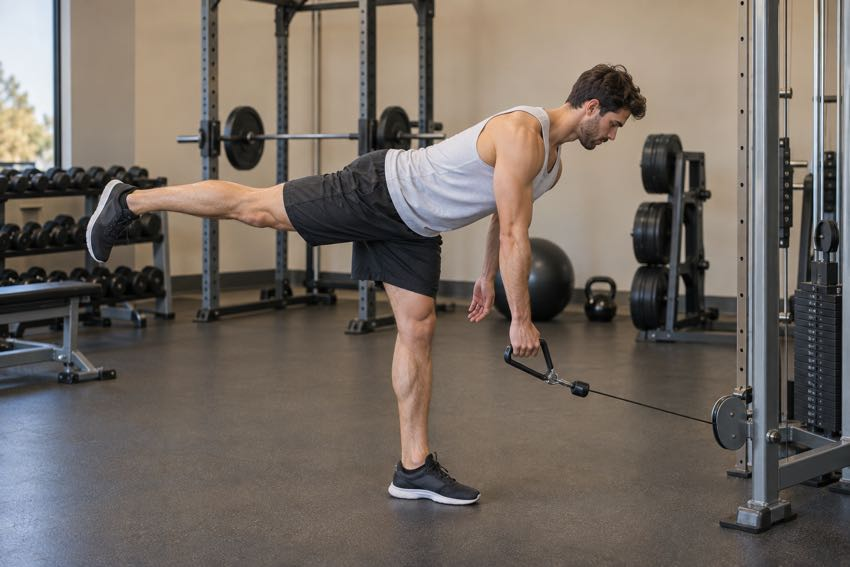
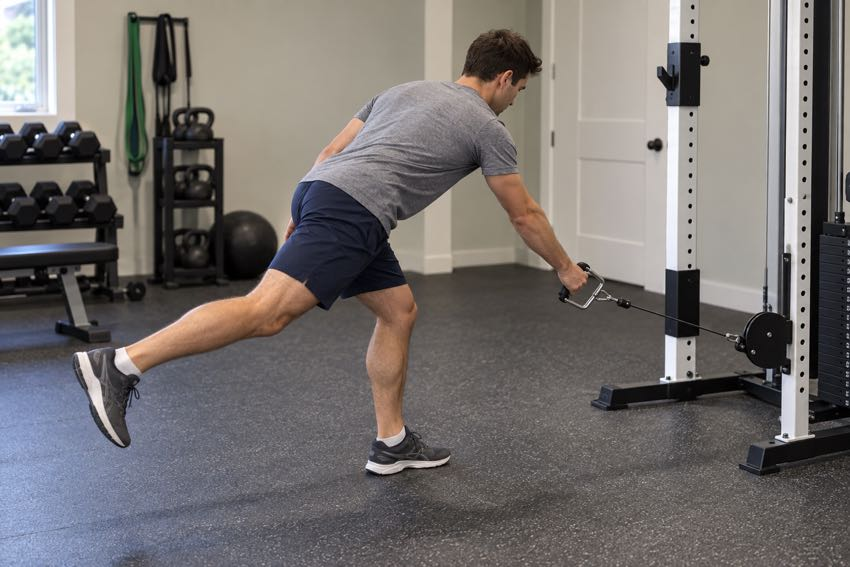
chore(handoff): publish codex

diff --git a/src/datos/semilla/biblioteca/unilaterales.ts b/src/datos/semilla/biblioteca/unilaterales.ts
@@ -196,10 +196,10 @@ export const PRESS_UNILATERAL_CONVERGENTE: Ejercicio = {
   equipo: 'convergente',
   imagen: '/ejercicios/sfm-catalog-c026.jpg',
   imagenGenerada: true,
-  explicacionCorta: 'Un brazo cada vez en una máquina con brazos independientes. Empujar delante del pecho sin separar la espalda del respaldo.',
+  explicacionCorta: 'Un brazo cada vez en una máquina con brazos independientes. Seguir el arco de empuje delante del pecho sin separar la espalda del respaldo; la imagen muestra una variante inclinada.',
   musculoPrimario: 'pecho',
   musculosSecundarios: ['deltoideAnterior', 'triceps'],
-  ...DISCOS_POR_LADO,
+  ...STACK,
 }
 
 export const PULLDOWN_UNILATERAL_CONVERGENTE: Ejercicio = {
@@ -209,7 +209,7 @@ export const PULLDOWN_UNILATERAL_CONVERGENTE: Ejercicio = {
   equipo: 'convergente',
   imagen: '/ejercicios/sfm-catalog-c059.jpg',
   imagenGenerada: true,
-  explicacionCorta: 'Sentado con los muslos sujetos, tirar de un brazo de la máquina hacia el hombro. Llevar el codo hacia el costado sin girar el torso.',
+  explicacionCorta: 'Tirar de una palanca superior llevando el codo hacia el costado. La imagen muestra una variante sentada de lado, con la mano libre en el soporte fijo y el torso estable.',
   musculoPrimario: 'espalda',
   musculosSecundarios: ['biceps'],
   ...DISCOS_POR_LADO,
@@ -314,7 +314,7 @@ export const PRESS_UNILATERAL_HOMBRO_MAQUINA: Ejercicio = {
   explicacionCorta: 'Un brazo cada vez en una máquina de hombro con palancas independientes. Empujar arriba sin arquear la espalda y bajar controlado.',
   musculoPrimario: 'deltoideAnterior',
   musculosSecundarios: ['triceps', 'deltoideLateral'],
-  ...DISCOS_POR_LADO,
+  ...STACK,
 }
 
 export const PESO_MUERTO_RUMANO_UNILATERAL_CABLE: Ejercicio = {

diff --git a/public/ejercicios/PROCEDENCIA.md b/public/ejercicios/PROCEDENCIA.md
@@ -1,91 +1,122 @@
-# Procedencia de fotos — cierre unilateral 2026-09-28
+# Procedencia de imágenes de ejercicios
 
-14 archivos: 11 nuevas fichas (los diez pedidos y C071) y tres reemplazos.
-Todas las entregas son JPG 850×567, menores de 100.000 bytes. Los originales IA
-se generaron con la herramienta integrada `image_gen`, una imagen por ejercicio;
-la única transformación local fue redimensionar y comprimir con macOS `sips`.
-No se utilizó una API externa ni la alternativa CLI de generación.
+Revisión 2 · 2026-09-28. Las 12 imágenes IA sustituyen la primera versión rechazada por ejecución poco realista. Cada recreación recibió una imagen real como referencia visual directa. JPG 850×567, menos de 100 KB.
 
-Las 12 representaciones IA **no son fotografías reales**: están marcadas
-`imagenGenerada=true` y la ficha avisa «Imagen generada con IA».
-Los [términos de OpenAI](https://openai.com/policies/terms-of-use/), sección
-Content, asignan el Output al usuario, sujeto a sus condiciones. No se atribuye
-una licencia de dominio público ni exclusividad a las imágenes sintéticas.
-C071 y C256 provienen de [free-exercise-db](https://github.com/yuhonas/free-exercise-db),
-que publica el dataset e imágenes como dominio público bajo
-[Unlicense](https://github.com/yuhonas/free-exercise-db/blob/main/LICENSE.md),
-con uso comercial permitido. Copia local: `UNLICENSE-free-exercise-db.txt`.
+Las referencias externas documentan la ejecución: no son fotos de banco licenciadas para redistribución y sus originales no se incluyen en la aplicación. Las imágenes finales se identifican como generadas con IA. Las condiciones de OpenAI para el output no otorgan derechos sobre los originales de terceros.
 
-El PDF del cliente enumera nombres/categorías, no fija modelos ni posturas.
-La revisión visual comprueba movimiento, equipo, unilateralidad, agarre y
-anatomía visible. El equipo es representativo; el bloque B quedó genérico según
-confirmación del dueño. Los músculos y cargas siguen siendo estimados.
-
-| Archivo | Origen | Condiciones | Revisión visual |
+| ID | Archivo | Origen / referencia | Condiciones del archivo final |
 |---|---|---|---|
-| [sfm-catalog-c026.jpg](sfm-catalog-c026.jpg) | **Generada con IA — OpenAI image_gen** | [OpenAI Terms of Use](https://openai.com/policies/terms-of-use/) | Press de pecho: una palanca adelantada, brazo opuesto libre, respaldo y palancas con pivotes visibles. |
-| [sfm-catalog-c031.jpg](sfm-catalog-c031.jpg) | **Generada con IA — OpenAI image_gen** | [OpenAI Terms of Use](https://openai.com/policies/terms-of-use/) | Press en cable: agarre individual, empuje delante del pecho, cable a altura de pecho y postura dividida. |
-| [sfm-catalog-c059.jpg](sfm-catalog-c059.jpg) | **Generada con IA — OpenAI image_gen** | [OpenAI Terms of Use](https://openai.com/policies/terms-of-use/) | Pulldown: una palanca baja hacia el hombro, otra permanece alta, muslos bajo soporte y discos visibles. |
-| [sfm-catalog-c077.jpg](sfm-catalog-c077.jpg) | **Generada con IA — OpenAI image_gen** | [OpenAI Terms of Use](https://openai.com/policies/terms-of-use/) | Remo: apoyo de pecho, un agarre junto a las costillas, palanca opuesta extendida y pies en plataformas. |
-| [sfm-catalog-c102.jpg](sfm-catalog-c102.jpg) | **Generada con IA — OpenAI image_gen** | [OpenAI Terms of Use](https://openai.com/policies/terms-of-use/) | Press de hombro: una palanca elevada sobre la cabeza, otra a altura de hombro; espalda apoyada. |
-| [sfm-catalog-c107.jpg](sfm-catalog-c107.jpg) | **Generada con IA — OpenAI image_gen** | [OpenAI Terms of Use](https://openai.com/policies/terms-of-use/) | Elevación lateral: un brazo al costado, polea baja, cable conectado, torso vertical. |
-| [sfm-catalog-c147.jpg](sfm-catalog-c147.jpg) | **Generada con IA — OpenAI image_gen** | [OpenAI Terms of Use](https://openai.com/policies/terms-of-use/) | Curl: un brazo flexionado sobre apoyo, mano supinada sobre agarre de palanca; máquina con stack visible. |
-| [sfm-catalog-c161.jpg](sfm-catalog-c161.jpg) | **Generada con IA — OpenAI image_gen** | [OpenAI Terms of Use](https://openai.com/policies/terms-of-use/) | Pushdown: un brazo junto al costado, cuerda individual y puño vertical con agarre neutro; polea alta. |
-| [sfm-catalog-c194.jpg](sfm-catalog-c194.jpg) | **Generada con IA — OpenAI image_gen** | [OpenAI Terms of Use](https://openai.com/policies/terms-of-use/) | Prensa: un único pie sobre plataforma, pierna libre fuera del sled, cadera y espalda apoyadas. |
-| [sfm-catalog-c203.jpg](sfm-catalog-c203.jpg) | **Generada con IA — OpenAI image_gen** | [OpenAI Terms of Use](https://openai.com/policies/terms-of-use/) | Peso muerto: bisagra sobre una pierna, mancuerna hexagonal reconocible, pierna libre extendida atrás. |
-| [sfm-catalog-c204.jpg](sfm-catalog-c204.jpg) | **Generada con IA — OpenAI image_gen** | [OpenAI Terms of Use](https://openai.com/policies/terms-of-use/) | Rumano en cable: bisagra de una pierna, pierna libre atrás y D-handle conectado a polea baja. |
-| [sfm-catalog-c217.jpg](sfm-catalog-c217.jpg) | **Generada con IA — OpenAI image_gen** | [OpenAI Terms of Use](https://openai.com/policies/terms-of-use/) | Hip thrust: espalda alta en banco, un pie apoyado bajo rodilla y otro elevado; cadera extendida. |
-| [sfm-catalog-c071.jpg](sfm-catalog-c071.jpg) | [Foto real — free-exercise-db](https://raw.githubusercontent.com/yuhonas/free-exercise-db/main/exercises/Seated_One-arm_Cable_Pulley_Rows/1.jpg) | [Dominio público / Unlicense](https://github.com/yuhonas/free-exercise-db/blob/main/LICENSE.md) | Remo sentado: un único agarre activo, torso estable, polea baja y mano libre en muslo. |
-| [sfm-catalog-c256.jpg](sfm-catalog-c256.jpg) | [Foto real — free-exercise-db](https://raw.githubusercontent.com/yuhonas/free-exercise-db/main/exercises/Calf_Raise_On_A_Dumbbell/1.jpg) | [Dominio público / Unlicense](https://github.com/yuhonas/free-exercise-db/blob/main/LICENSE.md) | Calf raise de pie: una pierna sobre el apoyo, talón elevado y pierna libre sin empujar; barra del rack para equilibrio. |
+| C026 | sfm-catalog-c026.jpg | [Live Lean TV · Single Arm Incline Machine Chest Press](https://www.youtube.com/watch?v=0AZp7HQYrHo) | Generada con IA · [OpenAI Terms of Use](https://openai.com/policies/terms-of-use/) |
+| C031 | sfm-catalog-c031.jpg | [Muscle & Fitness · Single-Arm Cable Chest Press](https://www.muscleandfitness.com/exercise/workouts/chest-exercises/single-arm-cable-chest-press/) | Generada con IA · [OpenAI Terms of Use](https://openai.com/policies/terms-of-use/) |
+| C059 | sfm-catalog-c059.jpg | [Live Lean TV · Single Arm Sideways Machine Lat Pulldown](https://www.youtube.com/watch?v=nStpo9_Rqw4) | Generada con IA · [OpenAI Terms of Use](https://openai.com/policies/terms-of-use/) |
+| C077 | sfm-catalog-c077.jpg | [IHM · Single Arm Machine Row](https://vimeo.com/206193732) | Generada con IA · [OpenAI Terms of Use](https://openai.com/policies/terms-of-use/) |
+| C102 | sfm-catalog-c102.jpg | [Live Lean TV · Seated Single Arm Machine Shoulder Press](https://www.youtube.com/watch?v=xSOws585wck) | Generada con IA · [OpenAI Terms of Use](https://openai.com/policies/terms-of-use/) |
+| C107 | sfm-catalog-c107.jpg | [FITASTIC · Single Arm Cable Side Lateral Raise](https://www.youtube.com/watch?v=K1eQqUAWRDI) | Generada con IA · [OpenAI Terms of Use](https://openai.com/policies/terms-of-use/) |
+| C147 | sfm-catalog-c147.jpg | [T Nation / John Meadows · Single-Arm Machine Curl](https://archive.t-nation.com/training/tip-single-arm-machine-curl/) | Generada con IA · [OpenAI Terms of Use](https://openai.com/policies/terms-of-use/) |
+| C161 | sfm-catalog-c161.jpg | [Catalyst Athletics · Single-Arm Rope Tricep Pushdown](https://www.catalystathletics.com/exercise/898/Single-Arm-Rope-Tricep-Pushdown/) | Generada con IA · [OpenAI Terms of Use](https://openai.com/policies/terms-of-use/) |
+| C194 | sfm-catalog-c194.jpg | [StrengthLog · Leg press with one leg](https://www.strengthlog.com/leg-press/) | Generada con IA · [OpenAI Terms of Use](https://openai.com/policies/terms-of-use/) |
+| C203 | sfm-catalog-c203.jpg | [Dumbbell Single Leg Romanian Deadlift](https://vimeo.com/571004271) | Generada con IA · [OpenAI Terms of Use](https://openai.com/policies/terms-of-use/) |
+| C204 | sfm-catalog-c204.jpg | [The Elite Trainer · Single-Leg Cable Romanian Deadlift](https://theelitetrainer.com/single-leg-cable-romanian-deadlift/) | Generada con IA · [OpenAI Terms of Use](https://openai.com/policies/terms-of-use/) |
+| C217 | sfm-catalog-c217.jpg | [Live Lean TV · Shoulders Elevated Single Leg Hip Thrust](https://www.youtube.com/watch?v=CGklM00rO9o) | Generada con IA · [OpenAI Terms of Use](https://openai.com/policies/terms-of-use/) |
+| C071 | sfm-catalog-c071.jpg | https://raw.githubusercontent.com/yuhonas/free-exercise-db/main/exercises/Seated_One-arm_Cable_Pulley_Rows/1.jpg | Dominio público · Unlicense (copia local) |
+| C256 | sfm-catalog-c256.jpg | https://raw.githubusercontent.com/yuhonas/free-exercise-db/main/exercises/Calf_Raise_On_A_Dumbbell/1.jpg | Dominio público · Unlicense (copia local) |
 
-## Prompts finales
+## Dirección y revisión visual de las recreaciones
 
-Prompts completos también en `procedencia.json`, junto con fuente y condiciones por archivo.
+Se compararon unilateralidad, apoyos, dirección de resistencia, continuidad del equipo y agarres. Esta revisión visual no equivale a aprobación técnica de Santiago. Los nombres siguen genéricos. C026/C102 representan máquinas con stack; C059 representa una variante sentada de lado.
 
-### C026 — Generada con IA
+### C026
 
-Use case: photorealistic-natural. Asset: c026 exercise library. Generate ONE landscape 3:2 realistic gym photograph, editorial instructional fitness photography, adult athlete in plain light tank top and dark shorts, warm neutral light, grey gym machines and beige walls, full body and relevant apparatus visible, sharp hands and handles. Single arm converging chest press on a realistic plate-loaded machine with independent pivot arms. Seated upright with back on backrest, right hand pushing one handle forward at chest height, elbow partly extended, left hand resting on thigh, unused handle stationary. Visible coherent lever linkage, plates on separate loading horns. Horizontal chest press, not overhead. Anatomically correct two arms, two legs, five fingers per hand with natural closed grip, straight wrists, neutral spine. No logos, text, watermarks, collage, diagram or labels. Equipment must have realistic connected load-bearing parts; no floating cables or impossible handles.
+Referencia: Fotograma ~0:28.
 
-### C031 — Generada con IA
+Dirección de generación (resumen): Recreación fotográfica con referencia visual directa; conservar postura, apoyos, agarre y geometría del equipo. Atleta genérico con camiseta gris y pantalón azul, encuadre horizontal. Press inclinado con palancas independientes, respaldo, pies apoyados y mano libre en pecho. Máquina con stack.
 
-Use case: photorealistic-natural. Asset: c031 exercise library. ONE landscape 3:2 realistic gym photograph, editorial instructional fitness photography, adult athlete in plain light tank top and dark shorts, warm neutral lighting, grey equipment beige gym walls. Full athlete and essential apparatus visible, sharply detailed hands. Standing single arm cable chest press. Athlete faces away from adjustable cable tower, split stance, upright stable torso. One right D-handle at chest height pushed forward, elbow about 30 degrees bent, palm inward, cable runs clearly from handle behind shoulder to chest-height pulley. Left hand resting on hip, no second active handle. Not a fly: elbow visibly bent and pushing forward. Anatomically correct two arms, two legs, natural five-finger closed grips and straight wrists, neutral spine. No logos, text, watermark, collage, diagram. All equipment parts mechanically connected; no floating cables or malformed handles.
+Revisión: Press inclinado con palancas independientes, respaldo, pies apoyados y mano libre en pecho. Máquina con stack.
 
-### C059 — Generada con IA
+### C031
 
-Use case: photorealistic-natural. Asset: c059 exercise library. Generate ONE landscape 3:2 realistic gym photograph, editorial instructional fitness photography, adult athlete in plain light tank top and dark shorts, warm neutral light, grey gym machines and beige walls, full body and relevant apparatus visible, sharp hands and handles. Single arm converging lat pulldown on a plate-loaded independent-arm lever machine. Seated facing machine with thighs securely under thigh pads. Right hand grips overhead lever handle and pulls it down to upper chest/shoulder, right elbow points down beside ribs. Left arm relaxed on thigh, other machine lever remains overhead. Entire realistic machine including high pivots and weight plates visible. Anatomically correct two arms, two legs, five fingers per hand with natural closed grip, straight wrists, neutral spine. No logos, text, watermarks, collage, diagram or labels. Equipment must have realistic connected load-bearing parts; no floating cables or impossible handles.
+Referencia: Fotografía 271_B.jpg.
 
-### C077 — Generada con IA
+Dirección de generación (resumen): Recreación fotográfica con referencia visual directa; conservar postura, apoyos, agarre y geometría del equipo. Atleta genérico con camiseta gris y pantalón azul, encuadre horizontal. Postura dividida, empuje horizontal, una mano en agarre y cable continuo hacia polea posterior.
 
-Use case: photorealistic-natural. Asset: c077 exercise library. Generate ONE landscape 3:2 realistic gym photograph, editorial instructional fitness photography, adult athlete in plain light tank top and dark shorts, warm neutral light, grey gym machines and beige walls, full body and relevant apparatus visible, sharp hands and handles. Single arm seated machine row on a realistic independent-arm plate-loaded lever row machine. Chest pressed against chest support pad, feet on foot platforms. Right hand pulling neutral vertical handle toward ribs, elbow close to body and behind torso. Left hand rests relaxed on thigh. Unused left lever remains extended in front. Clear mechanically coherent row machine pivots and loading horns. Anatomically correct two arms, two legs, five fingers per hand with natural closed grip, straight wrists, neutral spine. No logos, text, watermarks, collage, diagram or labels. Equipment must have realistic connected load-bearing parts; no floating cables or impossible handles.
+Revisión: Postura dividida, empuje horizontal, una mano en agarre y cable continuo hacia polea posterior.
 
-### C102 — Generada con IA
+### C059
 
-Use case: photorealistic-natural. Asset: c102 exercise library. ONE landscape 3:2 realistic gym photograph, editorial instructional fitness photography, adult athlete in plain light tank top and dark shorts, warm neutral lighting, grey equipment beige gym walls. Full athlete and essential apparatus visible, sharply detailed hands. Seated single arm overhead shoulder press on a realistic plate-loaded machine with two independent overhead lever arms. Back on nearly upright backrest, feet planted. Right hand pushing handle overhead, elbow slightly bent and forearm vertical, left hand relaxed on thigh, unused left lever at shoulder height. Visible high pivots, coherent arms and plates. Anatomically correct two arms, two legs, natural five-finger closed grips and straight wrists, neutral spine. No logos, text, watermark, collage, diagram. All equipment parts mechanically connected; no floating cables or malformed handles.
+Referencia: Fotograma de posición inicial.
 
-### C107 — Generada con IA
+Dirección de generación (resumen): Recreación fotográfica con referencia visual directa; conservar postura, apoyos, agarre y geometría del equipo. Atleta genérico con camiseta gris y pantalón azul, encuadre horizontal. Variante sentada de lado, mano libre en soporte fijo, una palanca superior y discos; posición inicial del jalón.
 
-Use case: photorealistic-natural. Asset: c107 exercise library. ONE landscape 3:2 realistic gym photograph, editorial instructional fitness photography, adult athlete in plain light tank top and dark shorts, warm neutral lighting, grey equipment beige gym walls. Full athlete and essential apparatus visible, sharply detailed hands. Standing single arm cable lateral raise from a low pulley. Athlete upright next to tower, right arm elevated out sideways at just below shoulder height, elbow slightly bent and fixed, closed right hand grips D-handle, taut cable diagonally down across front of thighs to low pulley beside left ankle. Left arm relaxed by side. No lean-away, no overhead raise. Anatomically correct two arms, two legs, natural five-finger closed grips and straight wrists, neutral spine. No logos, text, watermark, collage, diagram. All equipment parts mechanically connected; no floating cables or malformed handles.
+Revisión: Variante sentada de lado, mano libre en soporte fijo, una palanca superior y discos; posición inicial del jalón.
 
-### C147 — Generada con IA
+### C077
 
-Use case: photorealistic-natural. Asset: c147 exercise library. ONE landscape 3:2 realistic gym photograph, editorial instructional fitness photography, adult athlete in plain light tank top and dark shorts, warm neutral lighting, grey equipment beige gym walls. Full athlete and essential apparatus visible, sharply detailed hands. Seated single arm biceps curl on a realistic independent-arm preacher curl machine. Right upper arm supported on sloped preacher pad, right elbow stays on pad and flexed 90 degrees, right palm up gripping machine lever handle. Left arm relaxed on thigh not gripping. Visible supported lever pivot aligned with elbow and attached weight mechanism. No dumbbell and no barbell. Anatomically correct two arms, two legs, natural five-finger closed grips and straight wrists, neutral spine. No logos, text, watermark, collage, diagram. All equipment parts mechanically connected; no floating cables or malformed handles.
+Referencia: Miniatura real del video.
 
-### C161 — Generada con IA
+Dirección de generación (resumen): Recreación fotográfica con referencia visual directa; conservar postura, apoyos, agarre y geometría del equipo. Atleta genérico con camiseta gris y pantalón azul, encuadre horizontal. Posición inicial del remo con pecho apoyado, agarre neutro unilateral, mano libre en muslo y palanca conectada a discos.
 
-Use case: photorealistic-natural. Asset: c161 exercise library. ONE landscape 3:2 realistic gym photograph, editorial instructional fitness photography, adult athlete in plain light tank top and dark shorts, warm neutral lighting, grey equipment beige gym walls. Full athlete and essential apparatus visible, sharply detailed hands. Single-arm triceps pushdown with NEUTRAL grip using ONE SHORT ROPE attachment from a HIGH cable pulley. Side-three-quarter view, athlete upright facing tower. Right upper arm stationary vertical tight against ribs, right elbow slightly bent near end of pushdown, forearm points downward, right fist grips vertical rope immediately above its rubber stop, thumb pointing upward and palm facing inward toward torso. Left hand rests on hip. One taut cable from high pulley descends to rope clip above right hand; visible entire connection. NO palm-up supinated grip, NO V bar, NO bilateral use. Anatomically correct two arms, two legs, natural five-finger closed grips and straight wrists. No logos, text, watermark, collage, diagram. All equipment parts mechanically connected; no floating cables or malformed handles.
+Revisión: Posición inicial del remo con pecho apoyado, agarre neutro unilateral, mano libre en muslo y palanca conectada a discos.
 
-### C194 — Generada con IA
+### C102
 
-Use case: photorealistic-natural. Asset: c194 exercise library. ONE landscape 3:2 realistic gym photograph, editorial instructional fitness photography, adult athlete in plain light tank top and dark shorts, warm neutral lighting, grey equipment beige gym walls. Full athlete and essential apparatus visible, sharply detailed hands. Unilateral leg press on realistic 45-degree sled leg press machine. Athlete reclined with back and hips supported on padded seat, RIGHT foot centered on sled platform, right knee bent about 70 degrees tracking toes. LEFT leg clearly resting bent OFF platform beside seat, left foot visible and completely off sled. Hands on side safety handles. Side view includes entire athlete, single active foot on platform, sled, two parallel diagonal guide rails and attached weight plates. Mechanically coherent machine. Anatomically correct two arms, two legs, natural five-finger closed grips and straight wrists. No logos, text, watermark, collage, diagram. All equipment parts mechanically connected; no floating cables or malformed handles.
+Referencia: Fotograma ~0:46.
 
-### C203 — Generada con IA
+Dirección de generación (resumen): Recreación fotográfica con referencia visual directa; conservar postura, apoyos, agarre y geometría del equipo. Atleta genérico con camiseta gris y pantalón azul, encuadre horizontal. Respaldo y pies apoyados; palanca unilateral elevada, otra retenida a altura de hombro; máquina con stack.
 
-Use case: photorealistic-natural. Asset: c203 exercise library. ONE landscape 3:2 realistic gym photograph, editorial instructional fitness photography, adult athlete in plain light tank top and dark shorts, warm neutral lighting, grey equipment beige gym walls. Full athlete and essential apparatus visible, sharply detailed hands. Single-leg Romanian deadlift with ONE hex dumbbell, not kettlebell. Full-body side-three-quarter view. Athlete standing on right leg, right knee softly bent, left leg extended backward in line with torso, hips square, neutral spine, torso hinged forward nearly horizontal. Left arm hangs vertically holding a clearly identifiable hex dumbbell below shoulder near shin height; right arm relaxed by side. Right foot flat on floor. Natural grip, realistic dumbbell handle and two symmetrical hex weights. Anatomically correct two arms, two legs, natural five-finger closed grips and straight wrists. No logos, text, watermark, collage, diagram. All equipment parts mechanically connected; no floating cables or malformed handles.
+Revisión: Respaldo y pies apoyados; palanca unilateral elevada, otra retenida a altura de hombro; máquina con stack.
 
-### C204 — Generada con IA
+### C107
 
-Use case: photorealistic-natural. Asset: c204 exercise library. ONE landscape 3:2 realistic gym photograph, editorial instructional fitness photography, adult athlete in plain light tank top and dark shorts, warm neutral lighting, grey equipment beige gym walls. Full athlete and essential apparatus visible, sharply detailed hands. Single-leg Romanian deadlift with a low cable pulley and one D-handle, not an ankle strap. Side-three-quarter view. Athlete stands on right leg with slight knee bend, hinges hips backward with straight spine, torso tilted forward near horizontal, left leg extended backward in line with torso. Left hand holds a D-handle below chest at knee height, arm straight, visible taut cable runs forward/down to low pulley in front of athlete. Right hand relaxed. Entire body, support foot and pulley visible. Anatomically correct two arms, two legs, natural five-finger closed grips and straight wrists. No logos, text, watermark, collage, diagram. All equipment parts mechanically connected; no floating cables or malformed handles.
+Referencia: Miniatura real sin texto.
 
-### C217 — Generada con IA
+Dirección de generación (resumen): Recreación fotográfica con referencia visual directa; conservar postura, apoyos, agarre y geometría del equipo. Atleta genérico con camiseta gris y pantalón azul, encuadre horizontal. Elevación lateral con codo suave; polea baja y cable cruzado por delante; mano libre en cadera.
 
-Use case: photorealistic-natural. Asset: c217 exercise library. ONE landscape 3:2 realistic gym photograph, editorial instructional fitness photography, adult athlete in plain light tank top and dark shorts, warm neutral lighting, grey equipment beige gym walls. Full athlete and essential apparatus visible, sharply detailed hands. Single-leg bodyweight hip thrust with upper back resting horizontally across a sturdy gym bench, one foot flat on floor directly below bent working knee, working knee near 90 degrees. Hips raised to form straight line shoulder-hip-working knee, pelvis level, other leg lifted with bent knee, foot completely off floor. Hands rest on pelvis. Bench-supported hip thrust, not glute bridge on floor. Clear side view entire body and bench. Anatomically correct two arms, two legs, natural five-finger closed grips and straight wrists. No logos, text, watermark, collage, diagram. All equipment parts mechanically connected; no floating cables or malformed handles.
+Revisión: Elevación lateral con codo suave; polea baja y cable cruzado por delante; mano libre en cadera.
+
+### C147
+
+Referencia: Miniatura real del video 8lb1WSXqrUU.
+
+Dirección de generación (resumen): Recreación fotográfica con referencia visual directa; conservar postura, apoyos, agarre y geometría del equipo. Atleta genérico con camiseta gris y pantalón azul, encuadre horizontal. Brazo y codo sobre apoyo preacher, agarre supinado de palanca; mano libre sobre el apoyo.
+
+Revisión: Brazo y codo sobre apoyo preacher, agarre supinado de palanca; mano libre sobre el apoyo.
+
+### C161
+
+Referencia: Fotograma del video 9x-OnFp9RE0.
+
+Dirección de generación (resumen): Recreación fotográfica con referencia visual directa; conservar postura, apoyos, agarre y geometría del equipo. Atleta genérico con camiseta gris y pantalón azul, encuadre horizontal. Una mano en extremo de cuerda, agarre neutro; otro extremo cuelga libre, mano opuesta en cadera. Se descartó una generación que juntaba ambas manos.
+
+Revisión: Una mano en extremo de cuerda, agarre neutro; otro extremo cuelga libre, mano opuesta en cadera. Se descartó una generación que juntaba ambas manos.
+
+### C194
+
+Referencia: Fotograma 11/34 de leg-press-one-leg.gif.
+
+Dirección de generación (resumen): Recreación fotográfica con referencia visual directa; conservar postura, apoyos, agarre y geometría del equipo. Atleta genérico con camiseta gris y pantalón azul, encuadre horizontal. Solo una planta sobre plataforma; pierna libre fuera del trineo, espalda y cadera en respaldo, manos en soportes.
+
+Revisión: Solo una planta sobre plataforma; pierna libre fuera del trineo, espalda y cadera en respaldo, manos en soportes.
+
+### C203
+
+Referencia: Miniatura real del video.
+
+Dirección de generación (resumen): Recreación fotográfica con referencia visual directa; conservar postura, apoyos, agarre y geometría del equipo. Atleta genérico con camiseta gris y pantalón azul, encuadre horizontal. Bisagra sobre una pierna, mancuerna hexagonal en mano contralateral y mano libre en cadera; pie posterior elevado.
+
+Revisión: Bisagra sobre una pierna, mancuerna hexagonal en mano contralateral y mano libre en cadera; pie posterior elevado.
+
+### C204
+
+Referencia: Fotograma ~0:08 del video O4t-KpGB3ms.
+
+Dirección de generación (resumen): Recreación fotográfica con referencia visual directa; conservar postura, apoyos, agarre y geometría del equipo. Atleta genérico con camiseta gris y pantalón azul, encuadre horizontal. Bisagra unilateral en fase intermedia, rodilla de apoyo suave, pierna libre atrás y brazo extendido hacia polea baja.
+
+Revisión: Bisagra unilateral en fase intermedia, rodilla de apoyo suave, pierna libre atrás y brazo extendido hacia polea baja.
+
+### C217
+
+Referencia: Fotograma de ejecución con espalda en banco.
+
+Dirección de generación (resumen): Recreación fotográfica con referencia visual directa; conservar postura, apoyos, agarre y geometría del equipo. Atleta genérico con camiseta gris y pantalón azul, encuadre horizontal. Espalda alta sobre borde del banco, un pie apoyado y otra rodilla elevada; pelvis sin giro visible, sin carga externa.
+
+Revisión: Espalda alta sobre borde del banco, un pie apoyado y otra rodilla elevada; pelvis sin giro visible, sin carga externa.

diff --git a/docs/HANDOFF.md b/docs/HANDOFF.md
@@ -1,5 +1,13 @@
 # Handoff de Santiago Fitness Method
 
+## 2026-09-28 — Revisión 2 de fotos con referencias reales — codex
+
+- El dueño rechazó la primera tanda por ejecución poco realista. Se recrearon las 12 imágenes IA usando fotografías/fotogramas reales como entradas visuales de image_gen, no solo descripciones de texto. Referencias enlazadas y revisión individual en public/ejercicios/PROCEDENCIA.md y procedencia.json; originales externos no distribuidos.
+- Se compararon postura, unilateralidad, apoyos, agarres y geometría del equipo. Se descartó un pushdown que juntaba ambas manos y se regeneró con la mano libre en cadera. Las imágenes siguen marcadas IA; esta revisión no equivale a aprobación técnica del coach.
+- C026 representa press inclinado con stack; C102 usa stack. Perfiles estimados de semilla ajustados, sin migrar calibraciones guardadas. C059 representa la variante sentada de lado y su explicación coincide. Nombres genéricos y 57 identidades intactos; C071/C256 no cambiaron.
+- Verificación: 799/799 tests, 87 archivos; lint y build PASS. JPG 850×567, 52.836–86.487 bytes. Las 14 imágenes publicadas en dist coinciden byte por byte con public. Comparación visual individual y mosaico de las 12 finales; no se repitió QA de navegación de biblioteca. Avisos conocidos de Node/JSDOM en pruebas.
+- Solo publicación Git; sin despliegue a producción. Siguiente: ninguno dentro del alcance solicitado.
+
 ## Cierre de fotos unilaterales — codex, 2026-09-28
 
 - Turno reclamado limpio en `main` (`00ab311`). Dueño confirma que las 12 respuestas B son «Mantener genérico»; no se editaron PDFs ni respuestas de Santiago.
@@ -66,11 +74,11 @@ trabaja y lo publica antes de que el otro continúe.
 
 ## Estado actual
 
-- **Owner:** codex
-- **Status:** active
+- **Owner:** unassigned
+- **Status:** complete
 - **Rama coordinada:** `main`
 - **Repositorio:** https://github.com/dayanivan681/santiago-fitness-method
-- **Última sincronización:** 2026-09-28T19:53:30.192Z
+- **Última sincronización:** 2026-09-29T02:05:43.296Z
 
 **Liberación del turno (claude-code, 2026-09-26):** codex lo reclamó el 2026-09-17
 para validar la ayuda real en Safari/PWA (`f6ad0d3`) y en nueve días no hubo ni
@@ -1213,6 +1221,14 @@ los nombres supuestos del borrador: primero se completaron las correcciones y QA
   queda pendiente recapturarlas. No se declara READY FOR SANTIAGO.
 
 <!-- HANDOFF-ENTRIES -->
+
+### 2026-09-29T02:05:43.296Z | codex | PUBLISH
+- **Estado:** complete
+- **Tarea:** Turno reclamado anteriormente.
+- **Cambios:** Recreadas 12 fotos IA a partir de referencias visuales reales; procedencia y fichas coherentes con los equipos
+- **Verificación:** npm test: 799/799; npm run lint PASS; npm run build PASS; 14 JPG 850x567 <100 KB; revision visual individual
+- **Siguiente:** ninguno
+
 
 ### 2026-09-28T19:53:30.192Z | codex | CLAIM
 - **Estado:** active

diff --git a/docs/ESTIMADOS-A-CONFIRMAR.md b/docs/ESTIMADOS-A-CONFIRMAR.md
@@ -152,8 +152,8 @@ son estimados representativos, corregibles por el coach durante el piloto.
 
 | Ref | Músculo principal · secundarios | Perfil estimado | Representación de la foto |
 |---|---|---|---|
-| C026 | Pecho · deltoide anterior, tríceps | Discos por lado | IA: convergente horizontal con palancas independientes |
-| C059 | Espalda · bíceps | Discos por lado | IA: jalón convergente de palancas independientes |
+| C026 | Pecho · deltoide anterior, tríceps | Stack | IA: convergente inclinado con palancas independientes |
+| C059 | Espalda · bíceps | Discos por lado | IA: jalón convergente, variante sentada de lado |
 | C071 | Espalda · bíceps | Stack | Dominio público: remo sentado de un brazo |
 | C077 | Espalda · bíceps | Discos por lado | IA: remo de palanca con apoyo de pecho |
 | C107 | Deltoide lateral | Stack | IA: polea baja y torso vertical |
@@ -161,12 +161,16 @@ son estimados representativos, corregibles por el coach durante el piloto.
 | C217 | Glúteos · femoral, core | Peso corporal / lastre añadido | IA: hip thrust de una pierna con espalda en banco |
 | C256 | Pantorrillas | Peso corporal / lastre añadido | Dominio público: calf raise de pie de una pierna con apoyo |
 | C031 | Pecho · deltoide anterior, tríceps | Stack | IA: press unilateral desde polea a altura de pecho |
-| C102 | Deltoide anterior · tríceps, deltoide lateral | Discos por lado | IA: press de hombro de una palanca |
+| C102 | Deltoide anterior · tríceps, deltoide lateral | Stack | IA: press de hombro de una palanca |
 | C204 | Femoral · glúteos, core | Stack | IA: bisagra de una pierna con agarre de polea baja |
 
 Para C217 y C256, 0 lb significa sólo el peso corporal; registrar únicamente el
-lastre añadido. Las máquinas genéricas C077/C102 pueden usar discos o stack:
+lastre añadido. Las máquinas genéricas C026/C077/C102 pueden usar discos o stack:
 el perfil inicial representa la foto y debe calibrarse para el aparato real.
 La imagen de C147 no fija el modelo ni los saltos de la máquina del gimnasio.
 Las fotos sintéticas se revisaron por equipo, unilateralidad, postura y agarre;
 son representaciones y no fotos de las máquinas de Santiago.
+
+## Revisión visual 2 (2026-09-28)
+
+El dueño rechazó la primera tanda IA por ejecución poco realista. Las 12 imágenes se recrearon con referencias visuales reales introducidas en la generación. Fuentes y revisión individual en `public/ejercicios/PROCEDENCIA.md`. C026/C102 usan ahora el perfil estimado STACK (peso indicado en máquina, salto de 10 lb), coherente con la representación. Esto no confirma el equipo ni los incrementos reales del gimnasio y no migra calibraciones guardadas. C059 muestra una variante de lado; el nombre sigue genérico.

diff --git a/docs/BIBLIOTECA-AMPLIACION-UNILATERAL.md b/docs/BIBLIOTECA-AMPLIACION-UNILATERAL.md
@@ -52,7 +52,7 @@ no especificaciones de postura ni modelos de aparato.
 C071 se incluye además de los diez solicitados porque ya tiene foto fiel y B25
 quedó resuelto. El A5 genérico de la ficha histórica no fusiona sus historiales.
 Las tres fotos provisionales se sustituyen: **C194** ahora usa una sola pierna,
-**C203** una mancuerna y **C161** agarre neutro con cuerda corta individual.
+**C203** una mancuerna y **C161** agarre neutro sujetando un extremo de cuerda.
 
 Archivos: `public/ejercicios/sfm-catalog-cNNN.jpg`, 850×567, menos de 100 KB.
 Los 12 archivos sintéticos están marcados `imagenGenerada=true` y la ficha
@@ -87,3 +87,11 @@ C062 «Remo con mancuerna a una mano» ya existía como `remo-mancuerna`.
 Bloque B enviado el 2026-09-27 en https://sfm-variantes.pages.dev. El cierre usa
 la confirmación del dueño del 2026-09-28: las 12 respuestas fueron «Mantener
 genérico». No se alteraron las respuestas del cuestionario ni los PDFs.
+
+## Revisión 2: referencias reales para las 12 imágenes IA (2026-09-28)
+
+La primera tanda fue rechazada por el dueño por ejecución poco realista. Se sustituyeron las 12 imágenes sintéticas usando fotografías o fotogramas reales como entradas visuales de `image_gen`, con revisión individual de postura, apoyo, agarre y conexiones del equipo. C071/C256 conservan sus fotos de dominio público.
+
+Cada fuente está enlazada en `public/ejercicios/PROCEDENCIA.md` y registrada en `procedencia.json`, junto con el encuadre de referencia y la dirección de recreación. Los originales externos no se redistribuyen ni se presentan como dominio público. Se mantiene el aviso IA. La revisión visual no se presenta como aprobación técnica del coach.
+
+C026 representa press convergente inclinado con stack; C102 también usa stack. Se ajustaron sus perfiles estimados de semilla y la explicación de C026. C059 representa jalón sentado de lado, con soporte fijo para la mano libre; su explicación ahora coincide. C077 muestra el inicio del remo, no la contracción final. Identidades, nombres genéricos, 57 fichas y 24 filas activas no cambian.

diff --git a/docs/BUILD_LOG.md b/docs/BUILD_LOG.md
@@ -1,5 +1,13 @@
 # Build log — Santiago Fitness Method
 
+## 2026-09-28 — Revisión 2 de fotos con referencias reales — codex
+
+- El dueño rechazó la primera tanda por ejecución poco realista. Se recrearon las 12 imágenes IA usando fotografías/fotogramas reales como entradas visuales de image_gen, no solo descripciones de texto. Referencias enlazadas y revisión individual en public/ejercicios/PROCEDENCIA.md y procedencia.json; originales externos no distribuidos.
+- Se compararon postura, unilateralidad, apoyos, agarres y geometría del equipo. Se descartó un pushdown que juntaba ambas manos y se regeneró con la mano libre en cadera. Las imágenes siguen marcadas IA; esta revisión no equivale a aprobación técnica del coach.
+- C026 representa press inclinado con stack; C102 usa stack. Perfiles estimados de semilla ajustados, sin migrar calibraciones guardadas. C059 representa la variante sentada de lado y su explicación coincide. Nombres genéricos y 57 identidades intactos; C071/C256 no cambiaron.
+- Verificación: 799/799 tests, 87 archivos; lint y build PASS. JPG 850×567, 52.836–86.487 bytes. Las 14 imágenes publicadas en dist coinciden byte por byte con public. Comparación visual individual y mosaico de las 12 finales; no se repitió QA de navegación de biblioteca. Avisos conocidos de Node/JSDOM en pruebas.
+- Solo publicación Git; sin despliegue a producción. Siguiente: ninguno dentro del alcance solicitado.
+
 ## 2026-09-28 — Fotos fieles y cierre de unilaterales genéricos — codex
 
 - Fuente: dueño confirma 12 respuestas B «Mantener genérico». Se consultó Biblioteca Maestra PDF sin tocar `docs/cliente`. Nombres genéricos preservados; aparatos/fotos representativos, perfiles y músculos estimados.
